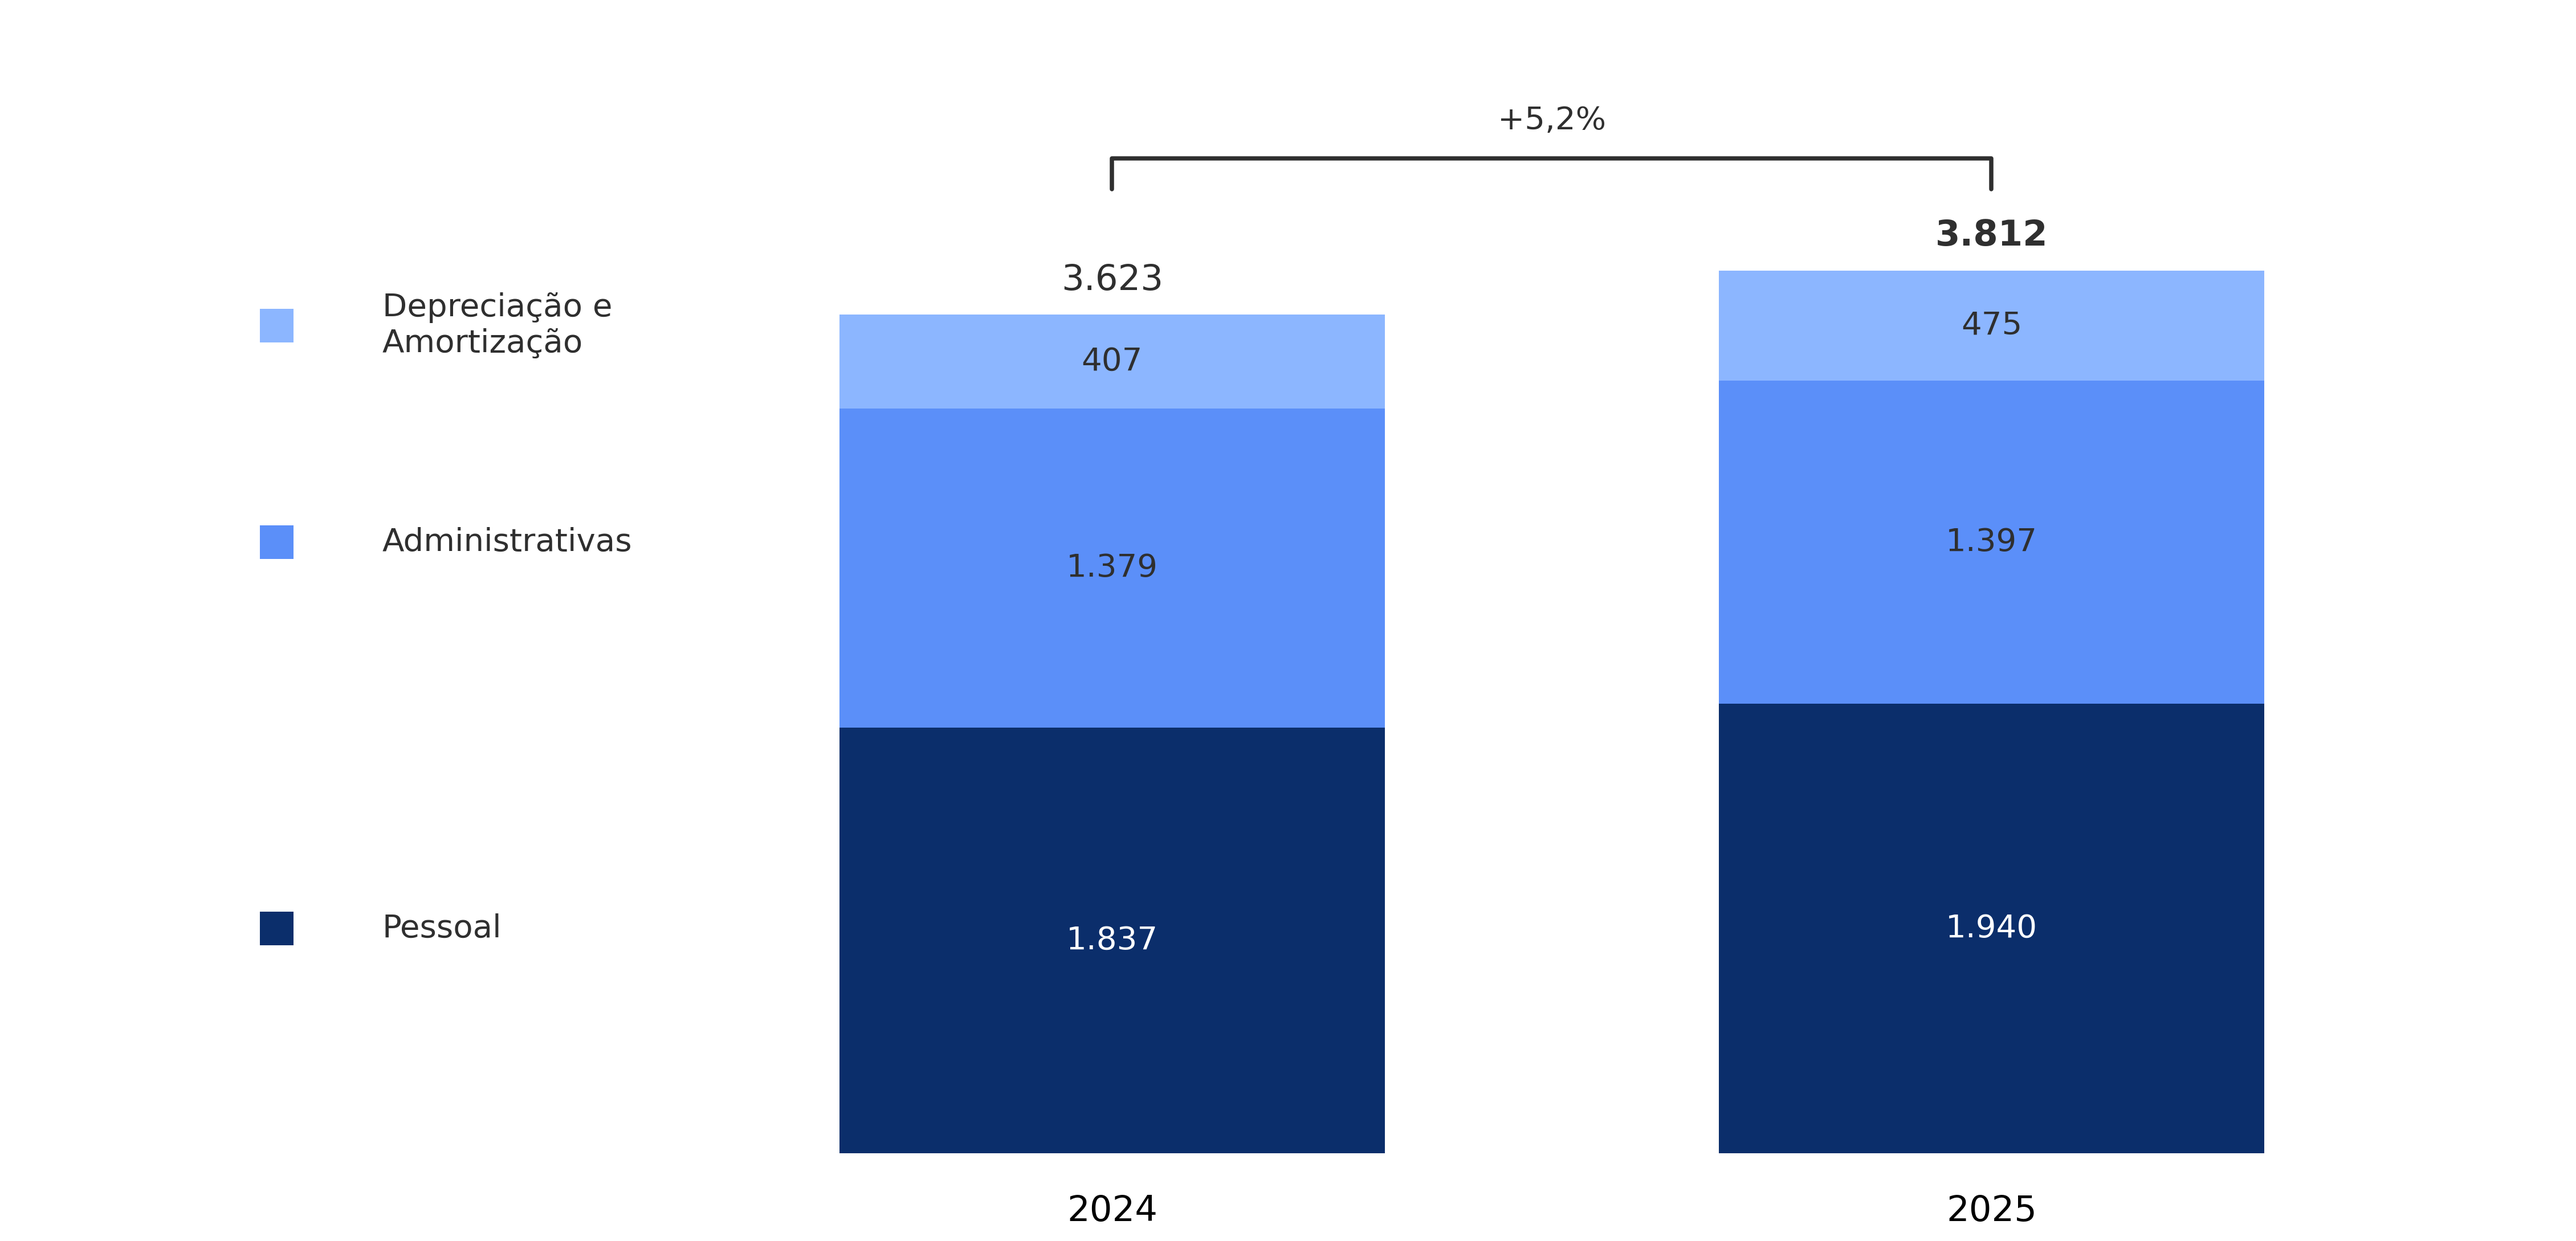
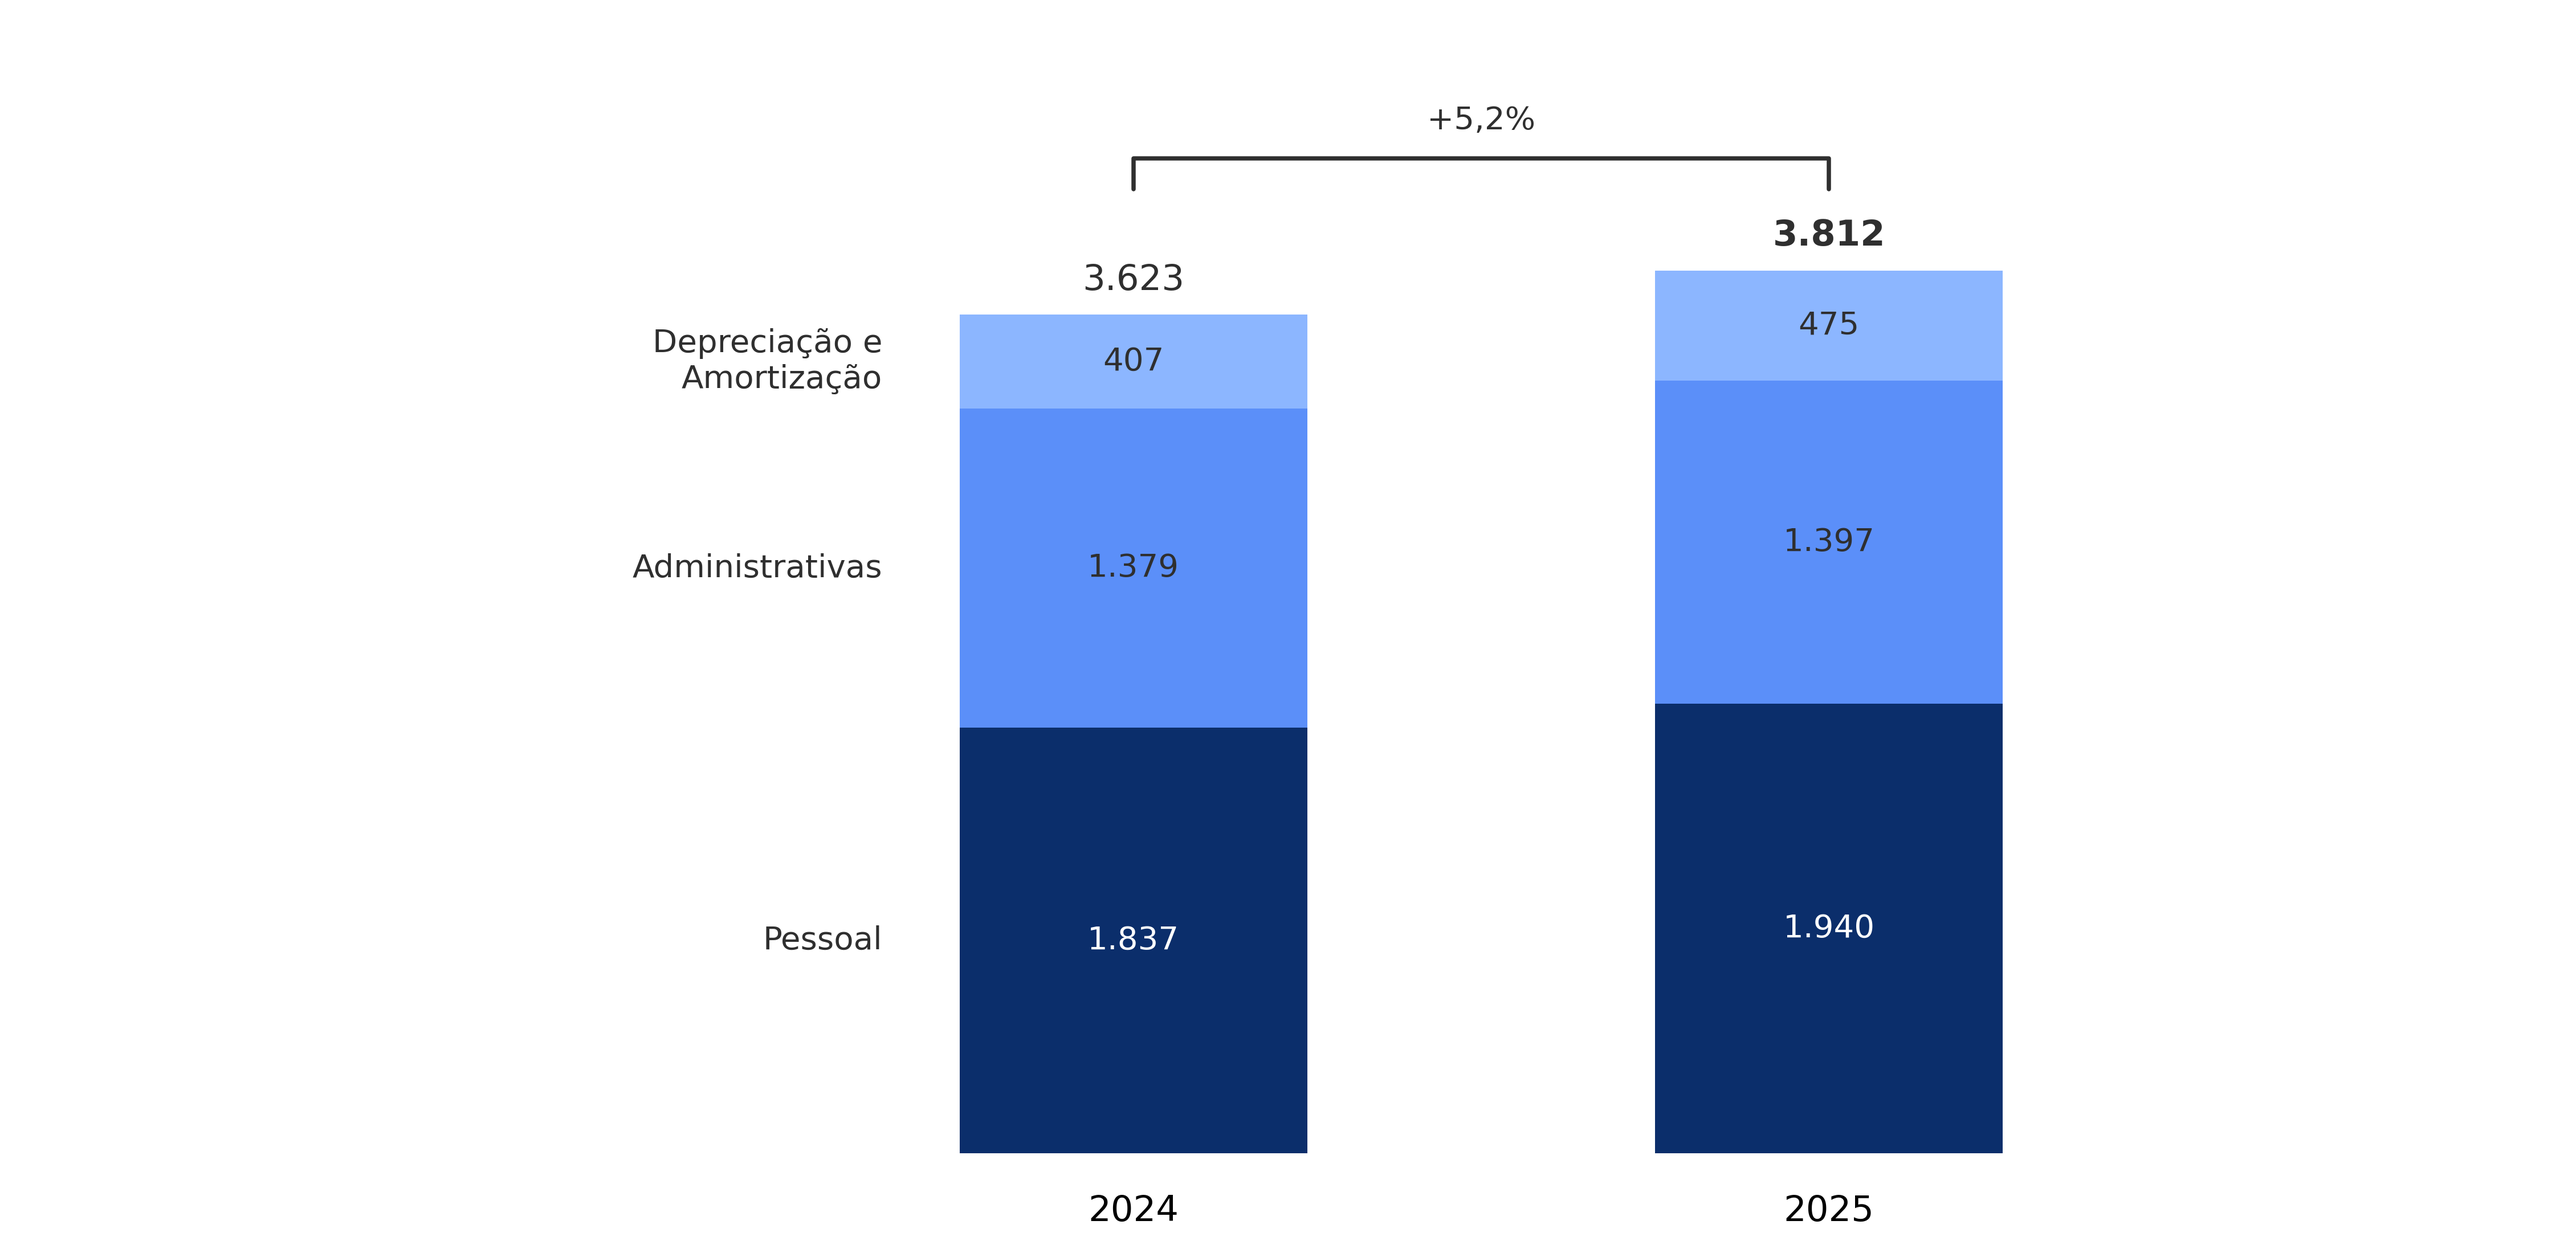
final adjustmetn on slide 11

diff --git a/utils/slide11_charts.py b/utils/slide11_charts.py
@@ -119,8 +119,13 @@ def _plot_stacked_expenses(
     fig.patch.set_alpha(0)
     ax.set_facecolor("none")
 
-    x = np.arange(n, dtype=float)
-    width = 0.62
+    if n <= 2:
+        bar_slot = 0.36
+        width = 0.18
+    else:
+        bar_slot = 0.40
+        width = 0.22
+    x = np.arange(n, dtype=float) * bar_slot
     bottom = np.zeros(n, dtype=float)
     segment_centers: list[list[float]] = [[] for _ in range(m)]
 
@@ -225,10 +230,10 @@ def _plot_stacked_expenses(
             ymin, ymax = ax.get_ylim()
             ax.set_ylim(ymin, max(ymax, max_text_y + offset_y * 1.4))
 
-    # Legenda inline à esquerda.
-    x_leg = float(x.min()) - 0.95
+    # Rótulos ao lado esquerdo da primeira barra, alinhados à cor correspondente.
+    x_leg = float(x[0]) - width / 2.0 - (0.04 if n <= 2 else 0.05)
     for j, name in enumerate(series_names):
-        y_ref = segment_centers[j][-1] if segment_centers[j] else float("nan")
+        y_ref = segment_centers[j][0] if segment_centers[j] else float("nan")
         if not np.isfinite(y_ref):
             for yc in segment_centers[j]:
                 if np.isfinite(yc):
@@ -236,12 +241,11 @@ def _plot_stacked_expenses(
                     break
         if not np.isfinite(y_ref):
             continue
-        ax.scatter([x_leg], [float(y_ref)], s=90.0, marker="s", color=colors[j % len(colors)], edgecolors="none", zorder=6)
         ax.text(
-            x_leg + 0.12,
+            x_leg,
             float(y_ref),
             _wrap_words(str(name), max_line_len=16),
-            ha="left",
+            ha="right",
             va="center",
             fontsize=9.0,
             color="#2f2f2f",
@@ -249,7 +253,10 @@ def _plot_stacked_expenses(
             clip_on=False,
         )
 
-    ax.set_xlim(float(x.min()) - 1.25, float(x.max()) + 0.65)
+    ax.set_xlim(
+        float(x.min()) - (0.58 if n <= 2 else 0.62),
+        float(x.max()) + (0.38 if n <= 2 else 0.30),
+    )
     ax.set_xticks(x)
     ax.set_xticklabels(xlabels, fontsize=10.0)
     ax.tick_params(axis="x", bottom=False, pad=8)

diff --git a/CHART_STYLE_GUIDE.md b/CHART_STYLE_GUIDE.md
@@ -1,0 +1,53 @@
+# Guia de Estilo dos Graficos
+
+Este arquivo registra decisoes visuais que ja foram aprovadas no projeto e devem
+ser reutilizadas em ajustes futuros.
+
+## Slide 11 - Despesas empilhadas
+
+Referencia atual:
+
+- `utils/slide11_charts.py`
+- funcoes: `_plot_stacked_expenses` e `generate_slide11_charts`
+
+Padrao aprovado:
+
+- fundo transparente
+- barras empilhadas mais finas do que o default original
+- barras mais proximas entre si
+- valores internos centralizados em cada faixa
+- total acima de cada barra
+- total da ultima barra em negrito
+- bracket de variacao sempre acima dos totais, nunca no meio do grafico
+- nomes das series no lado esquerdo, fora do grafico, alinhados com a altura da
+  faixa correspondente da primeira barra
+- esses nomes devem ser texto simples, sem quadrado solto, sem badge, sem bloco
+  colorido de fundo
+
+Detalhe importante da legenda lateral:
+
+- `Depreciacao e Amortizacao` deve ficar alinhado ao centro da faixa clara da
+  primeira barra
+- `Administrativas` deve ficar alinhado ao centro da faixa intermediaria da
+  primeira barra
+- `Pessoal` deve ficar alinhado ao centro da faixa escura da primeira barra
+
+Regra de dados para esse slide:
+
+- despesas podem vir negativas no Excel contabil
+- o grafico deve usar a magnitude positiva desses valores
+- ou seja, antes de plotar, aplicar valor absoluto nas series de despesa
+
+## Como reaplicar esse estilo
+
+Se um grafico novo precisar seguir esse mesmo modelo:
+
+- usar barras estreitas com espacamento comprimido
+- posicionar os rotulos de serie por coordenada vertical da primeira barra
+- evitar legenda tradicional separada do grafico
+- manter labels e brackets legiveis dentro do espacamento compacto
+
+## Observacao
+
+Se houver conflito entre esse guia e um pedido visual novo do usuario, vale o
+pedido mais recente do usuario.

diff --git a/README.md b/README.md
@@ -18,6 +18,7 @@ e devolve o `.pptx` final.
 - `config/job_config.json`: template, saida, diretorio de imagens e JSON padrao da LLM
 - `config/text_fields.json`: mapeamento `TOKEN -> celula A1` e chaves que devem vir do JSON da LLM
 - `utils/`: geradores de graficos e extracao de campos do Excel
+- `CHART_STYLE_GUIDE.md`: guia curto com estilizações aprovadas para reutilizar em ajustes visuais
 
 Nos campos de texto vindos do Excel, voce tambem pode usar `div` para dividir o valor antes de converter para string, `round` para definir quantas casas decimais o texto deve ter, `is_porc` para preservar a exibicao percentual do Excel (por exemplo `9,9%` em vez de `0.099`) e `is_pp` para forcar a leitura numerica pura de celulas com formato customizado em `p.p.`, deixando `round` e `VAR_` funcionarem em cima do valor bruto. Exemplo:
 
